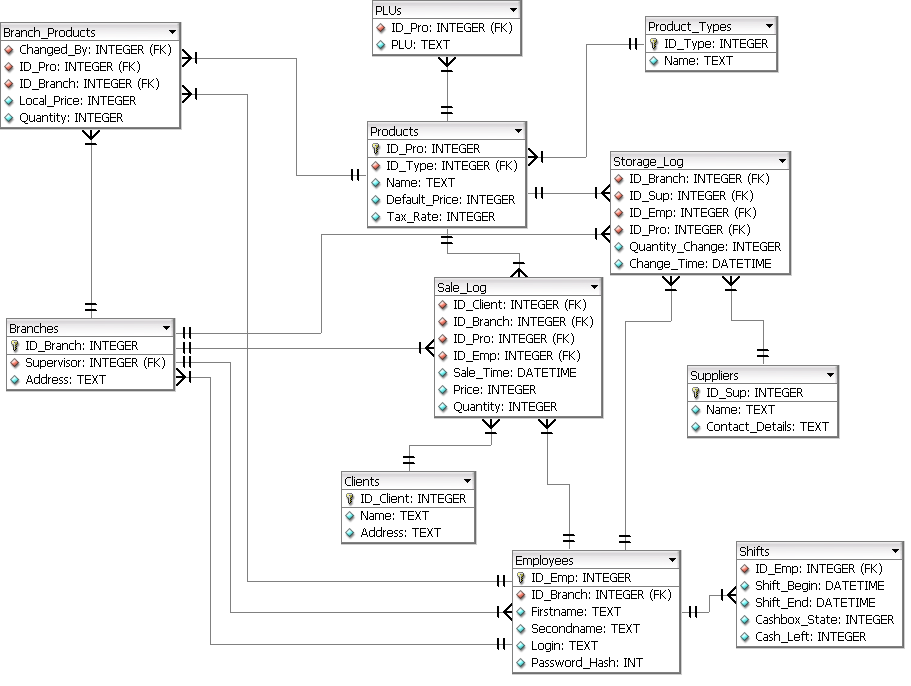
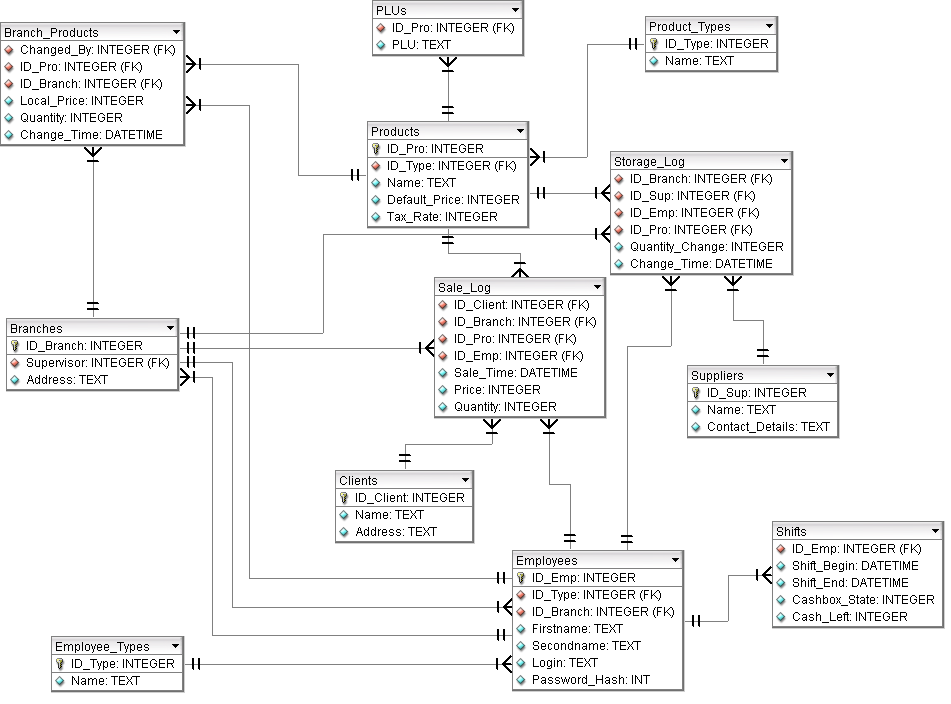
Zmiany w bazie i jej opisie. Zmiana wersji ;)

diff --git a/baza_danych.tex b/baza_danych.tex
@@ -14,11 +14,17 @@ Opis tabel:
 \item[Employees] dane pracowników
     \begin{description}
     \item[ID\_Emp] - identyfikator pracownika (klucz główny)
+    \item[ID\_Type] - typ pracownika (klucz obcy do tabeli Employee\_Types)
     \item[ID\_Branch] - identyfikator salonu, w którym pracuje dany pracownik (klucz obcy do tabeli Branches)
     \item[Firstname] - imię pracownika
     \item[Secondname] - nazwisko pracownika
     \item[Login] - nazwa pracownika w systemie
     \item[Password\_Hash] - skrót kryptograficzny hasła pracownika
+    \end{description}
+\item[Employee\_Types] typy pracowników (np. zwykły pracownik, szef salonu\ldots)
+    \begin{description}
+    \item[ID\_Type] - identyfikator typu (klucz główny)
+    \item[Name] - nazwa typu
     \end{description}
 \item[Shifts] zmiany pracowników
     \begin{description}

diff --git a/wersja.tex b/wersja.tex
@@ -1,1 +1,1 @@
-\textbf{0.1} z dnia 26.12.2007 
+\textbf{0.4} z dnia 13.01.2008 
